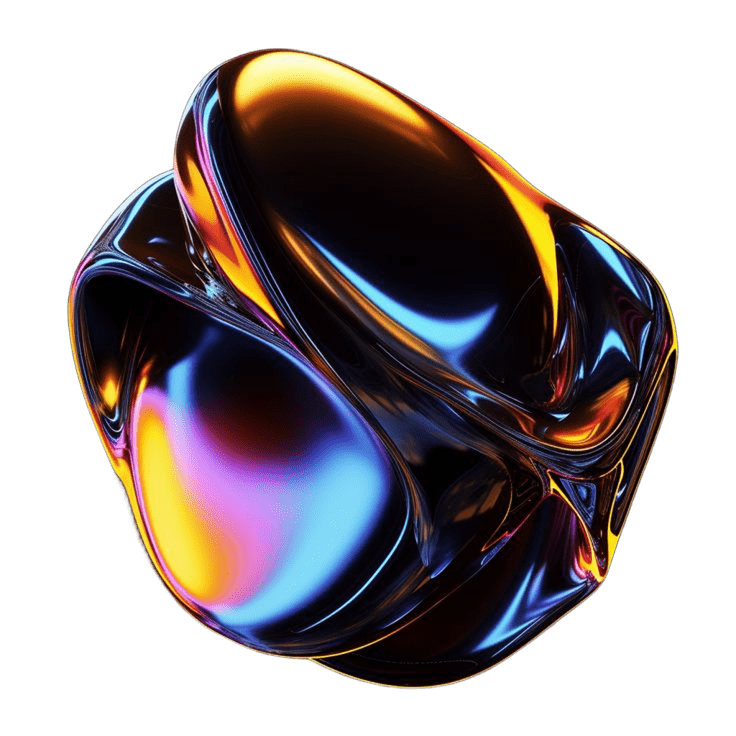
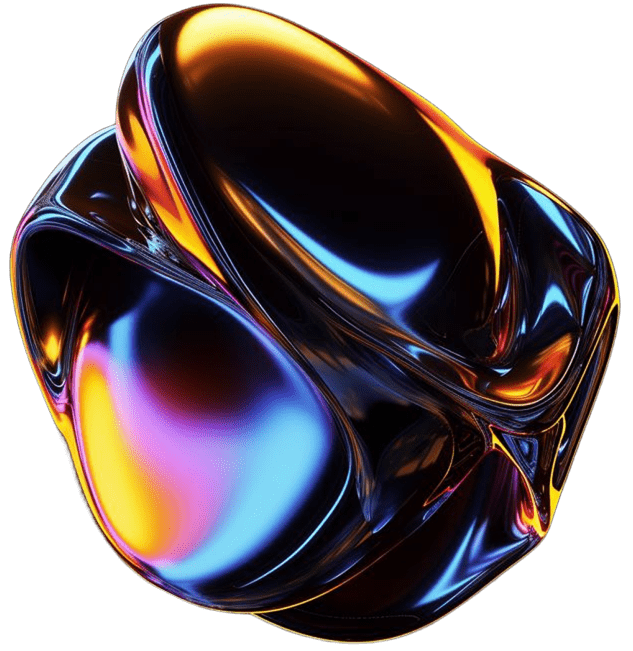
fevicon change

diff --git a/src/components/Projects.jsx b/src/components/Projects.jsx
@@ -35,24 +35,24 @@ const Card = ({ project, i, progress, range, targetScale }) => {
   const scale = useTransform(progress, range, [1, targetScale]);
   
   return (
-    <div ref={containerRef} className="h-screen flex items-start justify-center sticky top-0 pt-[20vh]">
+    <div ref={containerRef} className="min-h-screen flex items-start justify-center sticky top-0 pt-[15vh] sm:pt-[20vh]">
       <motion.div 
         style={{ 
           scale, 
           top: `calc(${i * 30}px)` 
         }}
-        className={`relative w-[90vw] max-w-5xl h-[500px] md:h-[600px] ${project.color} rounded-[40px] p-8 md:p-14 flex flex-col justify-between origin-top shadow-[0_-20px_50px_rgba(0,0,0,0.6)] border border-white/10`}
+        className={`relative w-[90vw] max-w-5xl h-auto min-h-[450px] md:h-[600px] ${project.color} rounded-[30px] sm:rounded-[40px] p-6 sm:p-10 md:p-14 flex flex-col justify-between origin-top shadow-[0_-20px_50px_rgba(0,0,0,0.6)] border border-white/10`}
       >
-        <div className="flex flex-col gap-6 max-w-2xl">
-          <h3 className="text-4xl md:text-6xl font-black uppercase tracking-tight text-white">{project.title}</h3>
-          <p className="text-lg md:text-xl text-white/60 leading-relaxed font-medium">
+        <div className="flex flex-col gap-4 sm:gap-6 max-w-2xl">
+          <h3 className="text-3xl sm:text-4xl md:text-6xl font-black uppercase tracking-tight text-white leading-tight">{project.title}</h3>
+          <p className="text-base sm:text-lg md:text-xl text-white/60 leading-relaxed font-medium">
             {project.description}
           </p>
         </div>
         
-        <div className="flex flex-wrap gap-3 mt-8">
+        <div className="flex flex-wrap gap-2 sm:gap-3 mt-6 sm:mt-8">
           {project.tech.map((tech, idx) => (
-            <span key={idx} className="bg-brand-neon/10 text-brand-neon border border-brand-neon/20 px-4 py-2 rounded-full text-sm font-bold tracking-wide uppercase">
+            <span key={idx} className="bg-brand-neon/10 text-brand-neon border border-brand-neon/20 px-3 py-1.5 sm:px-4 sm:py-2 rounded-full text-xs sm:text-sm font-bold tracking-wide uppercase">
               {tech}
             </span>
           ))}

diff --git a/src/components/About.jsx b/src/components/About.jsx
@@ -11,15 +11,15 @@ const About = () => {
   const y1 = useTransform(scrollYProgress, [0, 1], [100, -100]);
 
   return (
-    <section id="about" ref={containerRef} className="relative w-full py-32 md:py-48 bg-brand-black text-white px-6">
+    <section id="about" ref={containerRef} className="relative w-full py-20 sm:py-32 md:py-48 bg-brand-black text-white px-6">
       <div className="max-w-6xl mx-auto flex flex-col md:flex-row gap-12 md:gap-24 items-center">
         
         {/* Left massive text */}
         <motion.div 
           style={{ y: y1 }}
-          className="flex-1"
+          className="flex-1 w-full"
         >
-          <h2 className="text-4xl md:text-6xl lg:text-7xl font-bold uppercase tracking-tight leading-tight">
+          <h2 className="text-[12vw] sm:text-5xl md:text-6xl lg:text-7xl font-bold uppercase tracking-tight leading-[1.1] md:leading-tight">
             Engineering <br />
             <span className="text-outline-neon">Intelligence</span>
           </h2>

diff --git a/src/components/Hero.jsx b/src/components/Hero.jsx
@@ -79,10 +79,10 @@ const Hero = () => {
           variants={containerVariants}
           initial="hidden"
           animate="show"
-          className="text-[4rem] sm:text-[6rem] md:text-[8rem] lg:text-[10rem] font-black leading-[0.85] tracking-tighter text-center uppercase flex flex-wrap justify-center gap-x-6 md:gap-x-12 lg:gap-x-16 gap-y-2 max-w-[95vw] mb-6"
+          className="text-[13vw] sm:text-[6rem] md:text-[8rem] lg:text-[10rem] font-black leading-[0.85] tracking-tighter text-center uppercase flex flex-wrap justify-center gap-x-4 sm:gap-x-6 md:gap-x-12 lg:gap-x-16 gap-y-2 max-w-[95vw] mb-6"
         >
           {nameWords.map((word, i) => (
-            <span key={i} className="overflow-hidden inline-block pb-4 px-2 md:px-4 -mx-2 md:-mx-4">
+            <span key={i} className="overflow-hidden inline-block pb-4 px-1 sm:px-2 md:px-4 -mx-1 sm:-mx-2 md:-mx-4">
               <motion.span 
                 variants={itemVariants}
                 className="inline-block hover:text-brand-neon transition-colors duration-300"